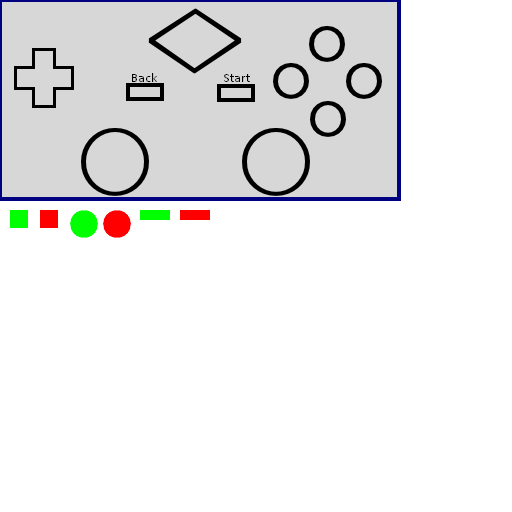
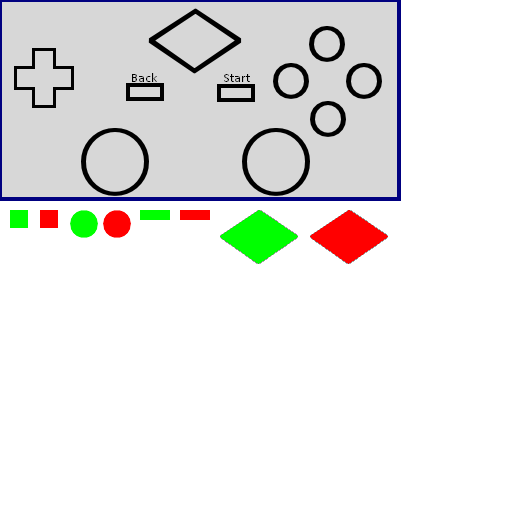
Updated Gamepad face rendering

Changed region(s): [[0.4375, 0.4062, 0.75, 0.5312]]

diff --git a/GamePadTest/MyGame.cs b/GamePadTest/MyGame.cs
@@ -210,6 +210,12 @@ namespace GamePadTest
             new Rectangle(130 + 350, 87 + 200, 30, 10),
             new Rectangle(221 + 350, 88 + 200, 30, 10)
         };
+        private readonly Rectangle[] bigButtonRects = new Rectangle[]
+        {
+            new Rectangle(220, 210, 78, 54),
+            new Rectangle(310, 210, 78, 54),
+            new Rectangle(156 + 350, 14 + 200, 78, 54)
+        };
         private void RenderPadFace()
         {
             // Gamepad
@@ -228,6 +234,7 @@ namespace GamePadTest
             spriteBatch.Draw(GamepadTexture, startbackButtonsRects[2], CurrentPadState.Buttons.Back == ButtonState.Released ? startbackButtonsRects[0] : startbackButtonsRects[1], Color.White);
             spriteBatch.Draw(GamepadTexture, startbackButtonsRects[3], CurrentPadState.Buttons.Start == ButtonState.Released ? startbackButtonsRects[0] : startbackButtonsRects[1], Color.White);
             // "Big" button
+            spriteBatch.Draw(GamepadTexture, bigButtonRects[2], CurrentPadState.Buttons.BigButton == ButtonState.Released ? bigButtonRects[0] : bigButtonRects[1], Color.White);
             // Sticks
         }
 
